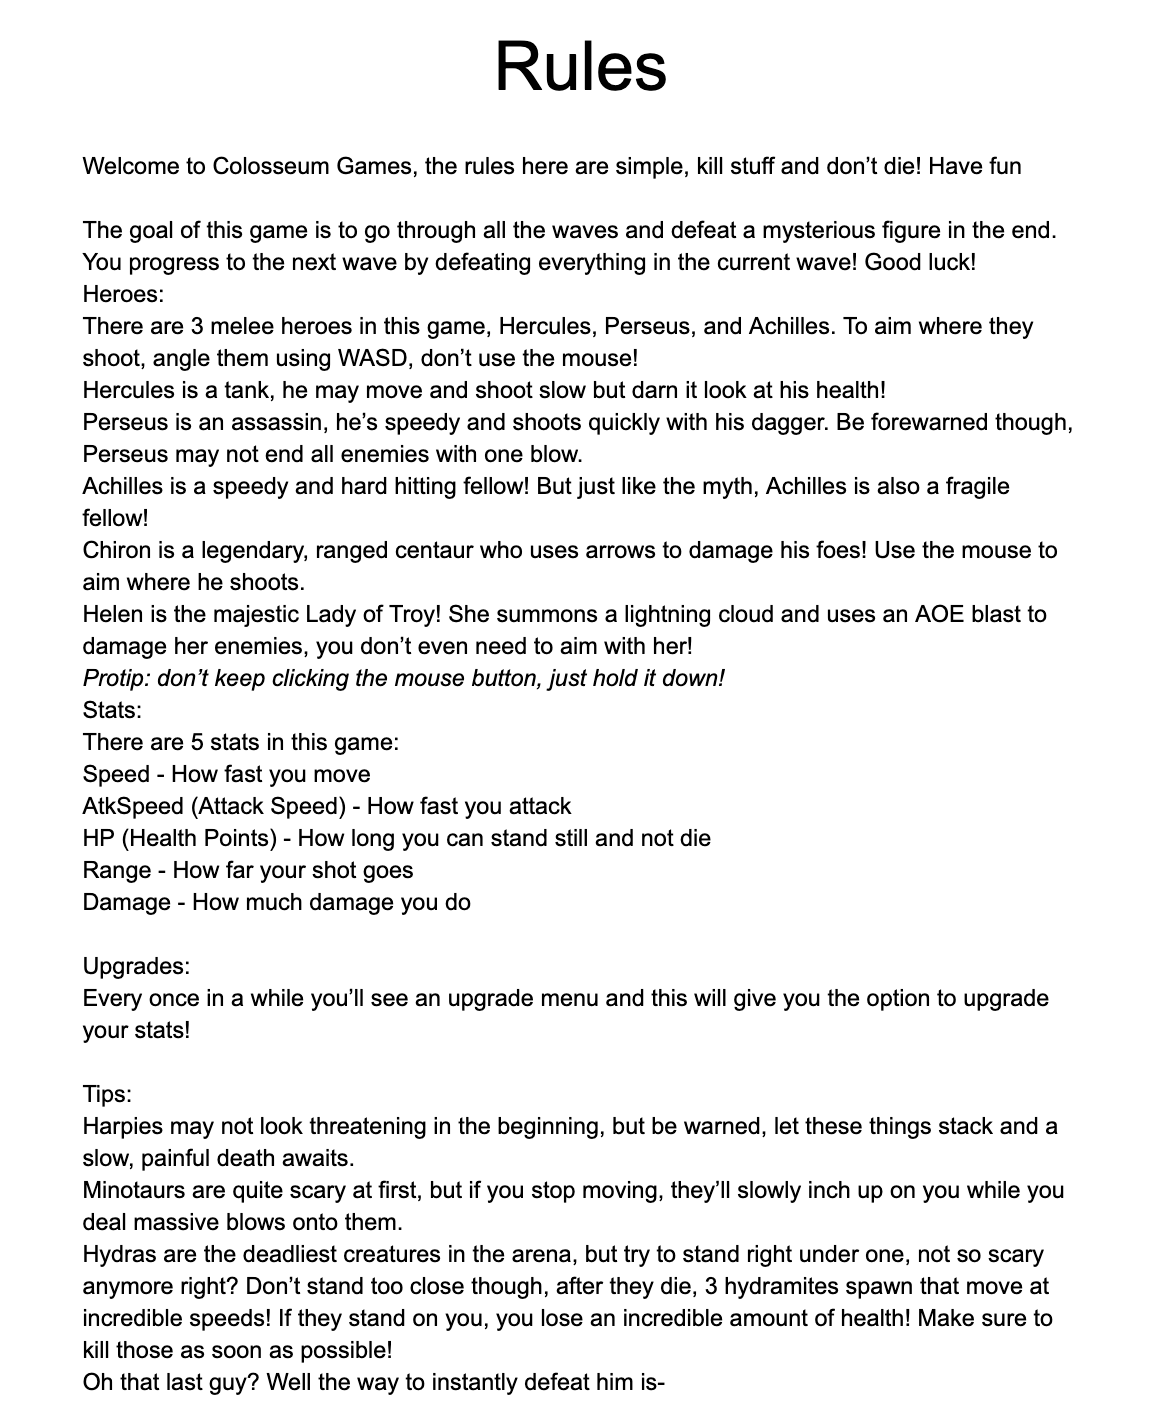
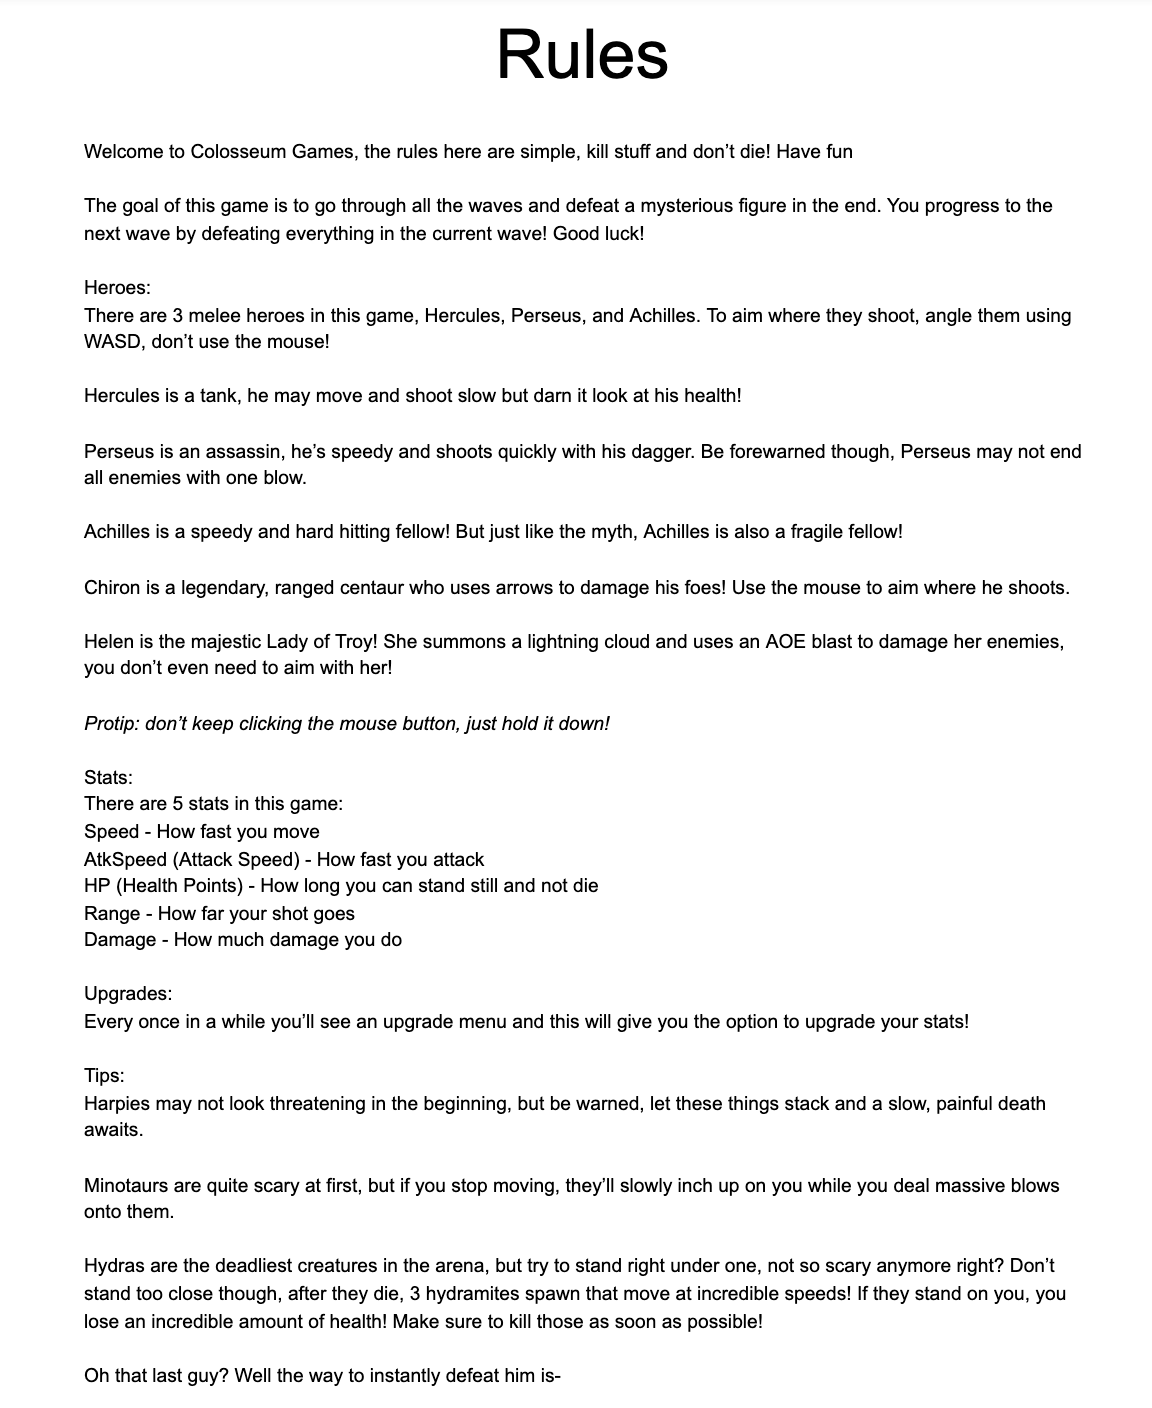
Rules screen fully functional

Changed region(s): [[0.0625, 0.0938, 0.9375, 1.0], [0.4062, 0.0, 0.5938, 0.0625], [0.5625, 0.5938, 0.625, 0.625]]

diff --git a/ColosseumGames/src/screens/startScreens/Rules.java b/ColosseumGames/src/screens/startScreens/Rules.java
@@ -1,6 +1,7 @@
 package screens.startScreens;
 
 import java.awt.Rectangle;
+import java.awt.geom.Rectangle2D;
 
 import other.DrawingSurface;
 import processing.core.PConstants;
@@ -20,9 +21,10 @@ public class Rules extends Screen {
 	
 	private PImage background, rules;
 	
-	private Rectangle backButton, slider;
+	private Rectangle backButton;
+	private Rectangle2D.Double slider;
 	
-	private int rulesX, rulesY, sliderY;
+	private float rulesX, rulesY, sliderY;
 	
 	private boolean isLocked;
 	
@@ -32,7 +34,7 @@ public class Rules extends Screen {
 		
 		this.surface = surface;
 		backButton = new Rectangle();
-		slider = new Rectangle();
+		slider = new Rectangle2D.Double();
 		
 		rulesX = 250;
 		rulesY = 0;
@@ -51,14 +53,14 @@ public class Rules extends Screen {
 	public void draw() {
 		surface.pushStyle();
 		surface.image(background, 0, 0, SCREEN_WIDTH, SCREEN_HEIGHT);
-		surface.image(rules, rulesX, rulesY, 800, 1200);
+		surface.image(rules, rulesX, rulesY, 950, 1200);
 		
 		backButton = new Rectangle(20, 600, 200, 130);
-		slider = new Rectangle(1100, sliderY, 50, 70);
+		slider = new Rectangle2D.Double(1200, sliderY, 50, 70);
 		
 		PShape shape = surface.createShape(PConstants.RECT, 20, 600, 200, 130, 20);
-		PShape shape2 = surface.createShape(PConstants.RECT, 1100, 0, 50, SCREEN_HEIGHT);
-		PShape shape3 = surface.createShape(PConstants.RECT, 1100, sliderY, 50, 70);
+		PShape shape2 = surface.createShape(PConstants.RECT, 1200, 0, 50, SCREEN_HEIGHT);
+		PShape shape3 = surface.createShape(PConstants.RECT, 1200, sliderY, 50, 70);
 		
 		int c1 = surface.color(204, 153, 0);
 		int c2 = surface.color(140, 153, 0);
@@ -66,10 +68,12 @@ public class Rules extends Screen {
 		shape2.setFill(surface.color(100));
 		
 		hover(backButton, shape, c1, c2);
-		hover(slider, shape3, c1, c2);
 		
-		if (isLocked)
+		shape3.setFill(c1);
+		
+		if (slider.contains(surface.mouseX, surface.mouseY) || isLocked) {
 			shape3.setFill(c2);
+		}
 		
 		surface.textSize(60);
 		
@@ -98,13 +102,13 @@ public class Rules extends Screen {
 	@Override
 	public void mouseDragged() {
 		if (isLocked) {
-			if (surface.mouseY > surface.pmouseY) {
-				sliderY += 3;
-				rulesY += 1;
-			}
-			else if (surface.mouseY < surface.pmouseY) {
-				sliderY -= 3;
+			if (surface.mouseY > surface.pmouseY && !(sliderY + 95 > SCREEN_HEIGHT)) {
+				sliderY += 1.5;
 				rulesY -= 1;
+			}
+			else if (surface.mouseY < surface.pmouseY && !(sliderY < 0)) {
+				sliderY -= 1.5;
+				rulesY += 1;
 			}
 		}
 	}
@@ -117,13 +121,13 @@ public class Rules extends Screen {
 	}
 	
 	public void mouseWheel(MouseEvent e) {
-		if (e.getCount() > 0) {
-			rulesY += 1;
-			sliderY += 3;
-		}
-		else if (e.getCount() < 0) {
+		if (e.getCount() > 0 && !(sliderY + 95 > SCREEN_HEIGHT)) {
 			rulesY -= 1;
-			sliderY -= 3;
+			sliderY += 1.5;
+		}
+		else if (e.getCount() < 0 && !(sliderY < 0)) {
+			rulesY += 1;
+			sliderY -= 1.5;
 		}
 	}
 
